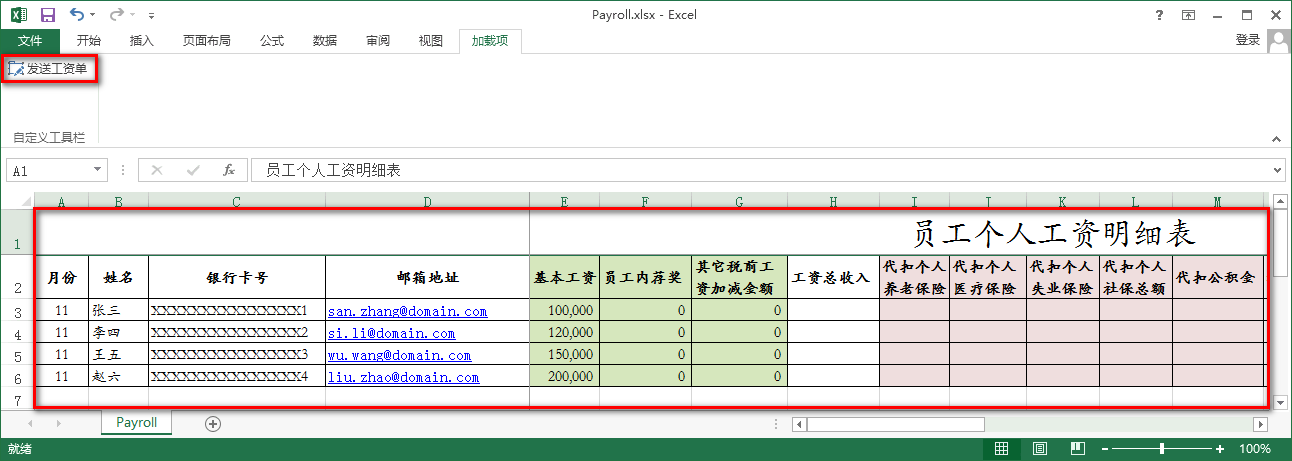
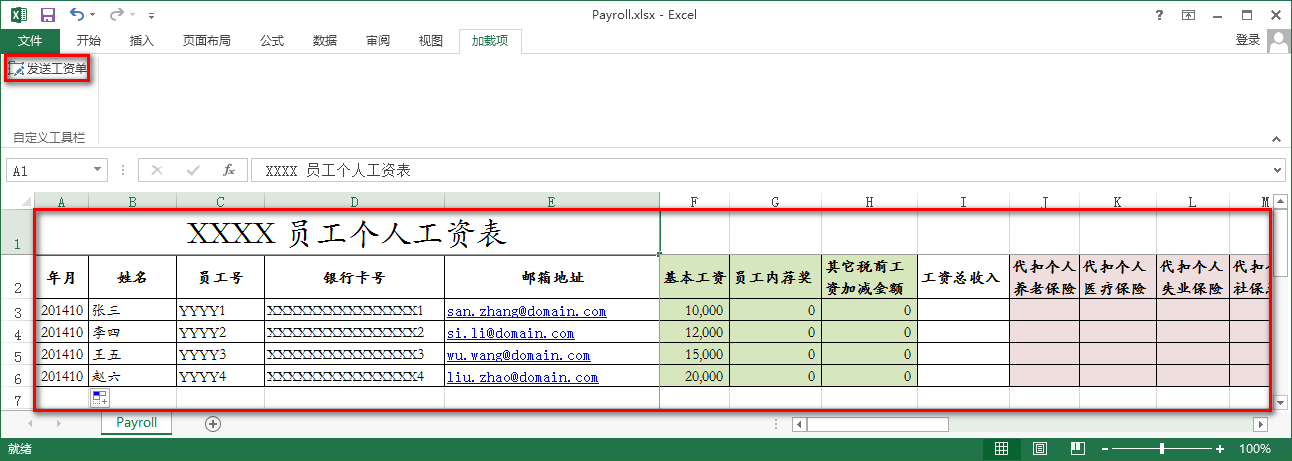
add payroll-with-excel-addin

diff --git a/_posts/201411/2014-11-08-payroll-with-excel-addin.md b/_posts/201411/2014-11-08-payroll-with-excel-addin.md
@@ -4,25 +4,31 @@ title: "EXCEL加载项Payroll"
 categories: programming
 ---
 
-公司还没有上专业的工资管理系统，我们提供了一个简单实用的Payroll程序以支持其工作：
->* 专人手工在基于EXCEL的Payroll模板(Payroll.xlsx)中维护员工工资和奖金数据
->* 每月放粮日通过Addin程序发送邮件，每人2封，一封为加密过的Payslip(EXCEL附件)，另一封为附件密码
+公司还没有上专业的工资管理系统，我们提供了一个简单实用的Payroll程序以简化和支持其工作。
 
 Payroll程序非常简单，一个EXCEL的Payroll模板(Payroll.xlsx)和一个EXCEL Addin程序(Payroll.xla)，见下图：
 ![示例](/images/PayrollList.png)
 
 **邮件发送程序依赖于CDO，故不支持EXCEL2007以上版本。**我这里是EXCEl2013版本，仅作演示用。
+
+首先，双击Payroll.xla打开并启用宏(放心没毒)，然后再双击打开Payroll.xlsx模板文件，如图所示，Payroll.xlsx模板中，第1,2行为共用标题栏，从第3行起为工资数据行，另外往右还有不少数据列，分辨率原因没有截图。
+
+由专人手工在基于EXCEL的Payroll模板(Payroll.xlsx)中维护员工工资和奖金数据，每月放粮日，点击加载项中的`发送工资单`按钮，将启动Payroll.xla中的宏程序发送邮件，每人两封，一封为加密过的Payslip(EXCEL附件)，另一封为附件密码。
 ![示例](/images/PayrollSheet.png)
 
+员工仅以加密过的Payslip(EXCEL附件)形式得到Payroll模板共用标题栏(第1,2行)和**只有自己的工资数据行**，互不影响达到保密要求。
 
+如图所示，两封邮件，HR Payroll密码邮件目前仅支持Text文本格式。
+![示例](/images/PayrollMail.png)
 
+如图所示，Payslip(EXCEL附件)命名采取`yyyy-m-d - xxx.xlsx`格式，xxx为随机数字，使用EXCEL加密。
+![示例](/images/PayrollAttachment.png)
 
-
-Features to be enhanced：
-1. 以HTML格式发送邮件
-2. 检查邮箱有效性
+Features to be enhanced：<br/>
+1. 以HTML格式发送邮件<br/>
+2. 检查邮箱有效性<br/>
 3. 标记发送失败邮件
 
-以上。
+以上。代码比较乱，就不公开了，感兴趣的可以与我联系索取。
 
 您有任何问题或建议，请给我写[邮件](mailto:yinwer81@gmail.com)。
